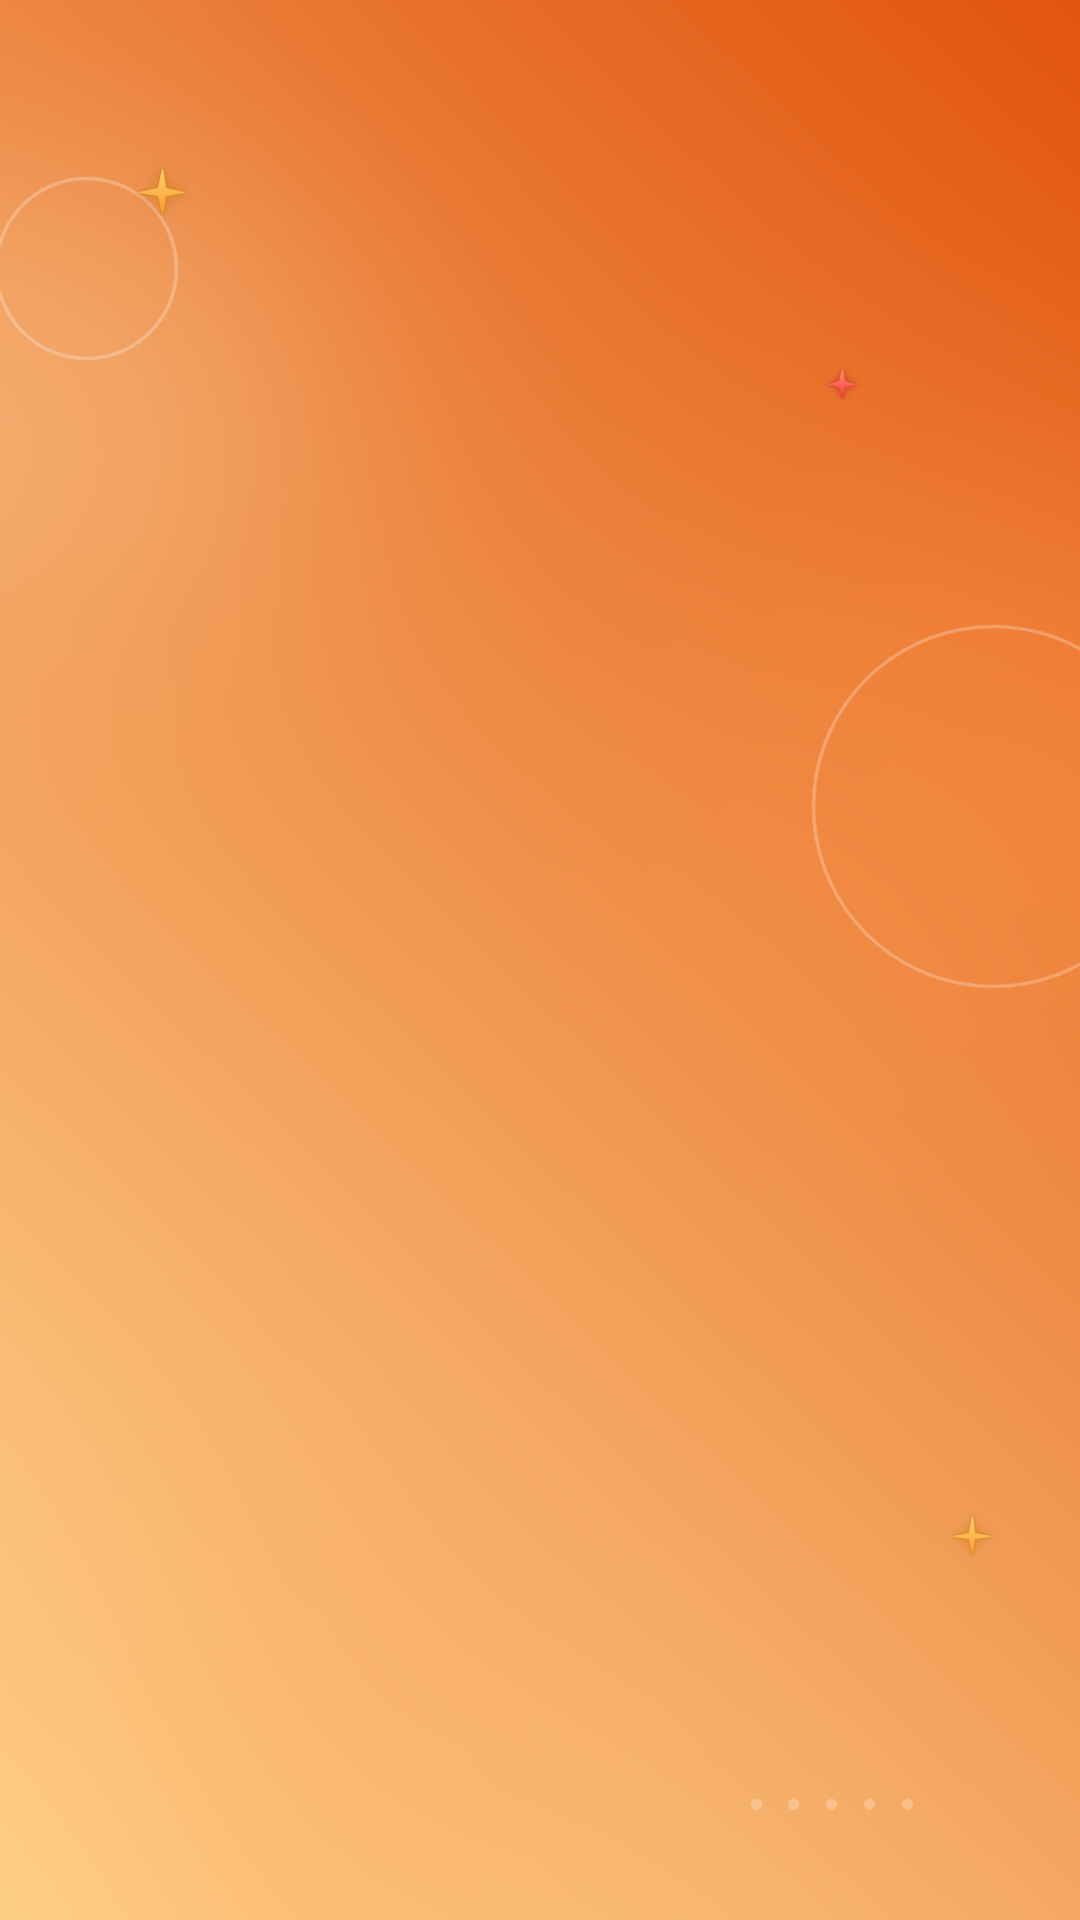
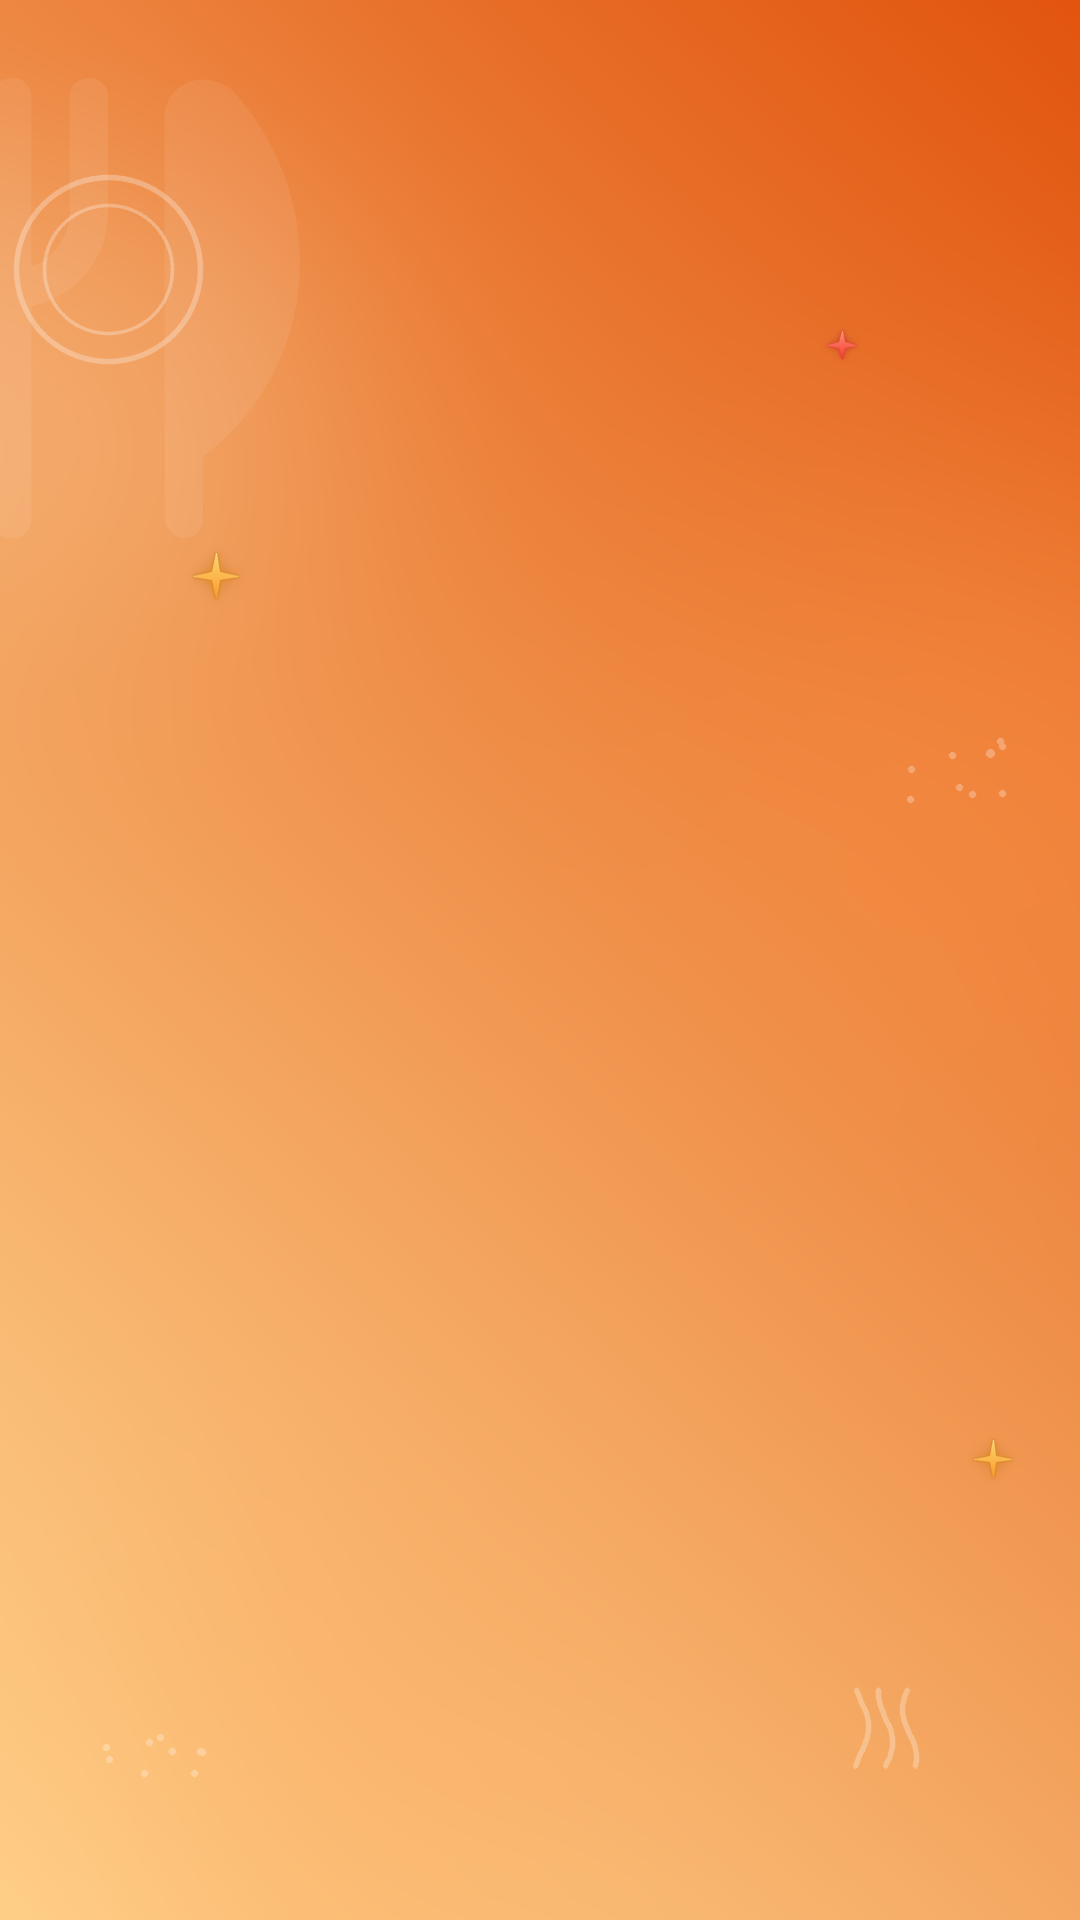
Nền kênh: 30 nền mới có họa tiết riêng theo kênh + script make_backgrounds

diff --git a/packaging/make_backgrounds.py b/packaging/make_backgrounds.py
@@ -1,0 +1,306 @@
+"""Tạo nền Motion Graphics theo kênh → assets/backgrounds/<kênh>/nen-1..5.png (+ ảnh tổng hợp nếu truyền đường dẫn).
+Cùng ngôn ngữ nền MG của app (gradient sáng, quầng mờ, nét mảnh, lấp lánh); mỗi kênh một bảng màu + bộ hình trang trí
+riêng + 1 icon lớn mờ; giữa khung để trống cho thẻ/chữ.
+  .venv/bin/python packaging/make_backgrounds.py [ra=assets/backgrounds] [tong_hop.png]"""
+from __future__ import annotations
+
+import math
+import os
+import sys
+from pathlib import Path
+
+import cv2
+import numpy as np
+
+sys.path.insert(0, str(Path(__file__).resolve().parent.parent))
+from thagent import neon                                  # noqa: E402
+from thagent.typography import _blend, hex_rgb            # noqa: E402
+
+W, H = 1080, 1920
+# kênh: (màu đậm, màu sáng, quầng 1, quầng 2, tông lấp lánh chính, phụ, icon lớn)
+FIELDS = {
+    "bat-dong-san": ("#1F3A93", "#B7C8EE", "#7FA0F0", "#F3D9A4", "gold", "gold", ["building", "city"]),
+    "suc-khoe":     ("#0E8F83", "#B5F0DE", "#5CD6B8", "#FFFFFF", "gold", "blue", ["heart", "leaf"]),
+    "giao-duc":     ("#2954DB", "#9EBDFD", "#8FB5FF", "#5B8CFF", "gold", "blue", ["book-open-cover", "graduation-cap"]),
+    "chia-se":      ("#6C3FD8", "#F4B8D2", "#B48CFF", "#FFD1A8", "gold", "red", ["comments", "comment-heart"]),
+    "lam-dep":      ("#D9467E", "#FFD9E5", "#FF9CC0", "#FFFFFF", "gold", "red", ["flower", "spa"]),
+    "fnb":          ("#E2550F", "#FFD58F", "#FF9A4D", "#FFF0C9", "gold", "red", ["bowl-chopsticks", "utensils"]),
+}
+NAMES = {"bat-dong-san": "Bất động sản", "suc-khoe": "Sức khỏe", "giao-duc": "Giáo dục", "chia-se": "Chia sẻ",
+         "lam-dep": "Làm đẹp", "fnb": "F&B"}
+
+# 5 bố cục: hướng gradient, quầng, 4 ô đặt hình (x,y,cỡ — luôn ở mép/góc), icon lớn (x,y,cỡ), lấp lánh
+LAYOUTS = [
+    dict(flip=False, orbs=[(.92, .10, 280, 0, .45), (.05, .88, 320, 1, .25), (.75, .62, 180, 0, .25)],
+         slots=[(.86, .15, 1.0), (.12, .82, .9), (.12, .10, .6), (.90, .90, .7)], big=(.86, .84, 520),
+         sparks=[(.70, .06, 50, 0), (.22, .93, 40, 1), (.94, .55, 30, 0)]),
+    dict(flip=True, orbs=[(.08, .12, 300, 0, .45), (.95, .85, 300, 1, .3), (.30, .55, 160, 0, .22)],
+         slots=[(.14, .16, 1.0), (.86, .80, .9), (.88, .09, .6), (.10, .92, .6)], big=(.12, .86, 500),
+         sparks=[(.32, .06, 46, 0), (.70, .93, 40, 1), (.05, .50, 28, 0)]),
+    dict(flip=False, orbs=[(.50, .05, 340, 0, .40), (.50, .98, 360, 1, .30)],
+         slots=[(.50, .08, 1.1), (.14, .88, .8), (.88, .86, .8), (.08, .45, .5)], big=(.92, .40, 440),
+         sparks=[(.82, .18, 44, 0), (.18, .20, 32, 1), (.85, .70, 30, 0), (.12, .72, 26, 0)]),
+    dict(flip=True, orbs=[(.90, .40, 260, 0, .40), (.10, .20, 220, 1, .28), (.30, .90, 240, 0, .25)],
+         slots=[(.88, .40, .9), (.10, .14, .8), (.82, .90, .7), (.14, .92, .6)], big=(.10, .16, 460),
+         sparks=[(.20, .30, 48, 0), (.78, .18, 30, 1), (.92, .76, 40, 0)]),
+    dict(flip=False, orbs=[(.15, .45, 300, 0, .35), (.85, .15, 240, 1, .35), (.80, .85, 260, 0, .30)],
+         slots=[(.10, .42, .9), (.88, .12, .9), (.80, .88, 1.0), (.14, .93, .5)], big=(.88, .14, 480),
+         sparks=[(.30, .08, 42, 0), (.58, .94, 36, 1), (.10, .78, 30, 0), (.94, .34, 26, 1)]),
+]
+
+T = 3   # nét mảnh
+
+
+def _p(x, y):
+    return int(round(x)), int(round(y))
+
+
+# ---------- hình trang trí (vẽ lên mặt nạ trắng, toạ độ tâm cx,cy, cỡ s ≈ 1 → ~200px) ----------
+def m_square(m, cx, cy, s, rot=0):
+    r = 70 * s
+    pts = [(cx + r * math.cos(math.radians(rot + 45 + 90 * k)), cy + r * math.sin(math.radians(rot + 45 + 90 * k))) for k in range(4)]
+    cv2.polylines(m, [np.int32(pts)], True, 255, T, cv2.LINE_AA)
+
+
+def m_roof(m, cx, cy, s):
+    w = 120 * s
+    for k, dy in enumerate((0, 34 * s)):
+        pts = [(cx - w + k * 20 * s, cy + 50 * s + dy), (cx, cy - 40 * s + dy), (cx + w - k * 20 * s, cy + 50 * s + dy)]
+        cv2.polylines(m, [np.int32(pts)], False, 255, T, cv2.LINE_AA)
+
+
+def m_dots(m, cx, cy, s, n=5, vertical=False):
+    for k in range(n):
+        x, y = (cx + (k - n / 2) * 38 * s, cy) if not vertical else (cx, cy + (k - n / 2) * 38 * s)
+        cv2.circle(m, _p(x, y), max(4, int(5 * s)), 255, -1, cv2.LINE_AA)
+
+
+def m_capsule(m, cx, cy, s, rot=-35):
+    L, r = 90 * s, 34 * s
+    a = math.radians(rot)
+    ux, uy = math.cos(a), math.sin(a)
+    c1, c2 = (cx - ux * L / 2, cy - uy * L / 2), (cx + ux * L / 2, cy + uy * L / 2)
+    nx, ny = -uy * r, ux * r
+    cv2.line(m, _p(c1[0] + nx, c1[1] + ny), _p(c2[0] + nx, c2[1] + ny), 255, T, cv2.LINE_AA)
+    cv2.line(m, _p(c1[0] - nx, c1[1] - ny), _p(c2[0] - nx, c2[1] - ny), 255, T, cv2.LINE_AA)
+    d = math.degrees(a)
+    cv2.ellipse(m, _p(*c1), (int(r), int(r)), d, 90, 270, 255, T, cv2.LINE_AA)
+    cv2.ellipse(m, _p(*c2), (int(r), int(r)), d, -90, 90, 255, T, cv2.LINE_AA)
+    cv2.line(m, _p(cx + nx, cy + ny), _p(cx - nx, cy - ny), 255, T, cv2.LINE_AA)
+
+
+def m_plus(m, cx, cy, s):
+    r = 26 * s
+    cv2.line(m, _p(cx - r, cy), _p(cx + r, cy), 255, T + 1, cv2.LINE_AA)
+    cv2.line(m, _p(cx, cy - r), _p(cx, cy + r), 255, T + 1, cv2.LINE_AA)
+
+
+def m_pulse(m, cx, cy, s):
+    w = 130 * s
+    cx = min(max(cx, w + 40), W - w - 40)     # không tràn mép
+    xs = [-1, -.35, -.22, -.08, .06, .2, 1]
+    ys = [0, 0, -.9, .8, -.3, 0, 0]
+    pts = [(cx + x * w, cy + y * 60 * s) for x, y in zip(xs, ys)]
+    cv2.polylines(m, [np.int32(pts)], False, 255, T, cv2.LINE_AA)
+
+
+def m_ring(m, cx, cy, s, n=1):
+    for k in range(n):
+        cv2.circle(m, _p(cx, cy), int((110 - k * 30) * s), 255, T - 1 if k else T, cv2.LINE_AA)
+
+
+def m_triangle(m, cx, cy, s, rot=0):
+    r = 46 * s
+    pts = [(cx + r * math.cos(math.radians(rot - 90 + 120 * k)), cy + r * math.sin(math.radians(rot - 90 + 120 * k))) for k in range(3)]
+    cv2.polylines(m, [np.int32(pts)], True, 255, T, cv2.LINE_AA)
+
+
+def m_stroke(m, cx, cy, s):
+    """gạch chân kiểu bút: cung thoải."""
+    xs = np.linspace(-1, 1, 30)
+    pts = [(cx + x * 120 * s, cy + (x * x - 1) * -14 * s + x * 10 * s) for x in xs]
+    cv2.polylines(m, [np.int32(pts)], False, 255, T + 1, cv2.LINE_AA)
+
+
+def m_bubble(m, cx, cy, s, flip=False):
+    w, h, r = 150 * s, 96 * s, 30 * s
+    x0, y0, x1, y1 = cx - w / 2, cy - h / 2, cx + w / 2, cy + h / 2
+    for (ax, ay, bx, by) in [(x0 + r, y0, x1 - r, y0), (x0 + r, y1, x1 - r, y1), (x0, y0 + r, x0, y1 - r), (x1, y0 + r, x1, y1 - r)]:
+        if (ay == y1 and ax == x0 + r):     # cạnh đáy chừa chỗ đuôi
+            tx = cx + (-w / 4 if not flip else w / 4)
+            cv2.line(m, _p(x0 + r, y1), _p(tx - 14 * s, y1), 255, T, cv2.LINE_AA)
+            cv2.line(m, _p(tx + 14 * s, y1), _p(x1 - r, y1), 255, T, cv2.LINE_AA)
+            tip = (tx + (-22 * s if not flip else 22 * s), y1 + 34 * s)
+            cv2.polylines(m, [np.int32([(tx - 14 * s, y1), tip, (tx + 14 * s, y1)])], False, 255, T, cv2.LINE_AA)
+            continue
+        cv2.line(m, _p(ax, ay), _p(bx, by), 255, T, cv2.LINE_AA)
+    for (ox, oy, a0) in [(x0 + r, y0 + r, 180), (x1 - r, y0 + r, 270), (x1 - r, y1 - r, 0), (x0 + r, y1 - r, 90)]:
+        cv2.ellipse(m, _p(ox, oy), (int(r), int(r)), 0, a0, a0 + 90, 255, T, cv2.LINE_AA)
+    for k in range(3):
+        cv2.circle(m, _p(cx + (k - 1) * 30 * s, cy), max(4, int(7 * s)), 255, -1, cv2.LINE_AA)
+
+
+def m_quote(m, cx, cy, s):
+    """dấu ngoặc kép “ vẽ bằng chữ đậm."""
+    from PIL import Image, ImageDraw, ImageFont
+    sz = int(150 * s)
+    f = ImageFont.truetype(str(Path(__file__).resolve().parent.parent / "assets" / "fonts" / "BeVietnamPro-ExtraBold.ttf"), sz)
+    im = Image.new("L", (sz * 2, sz * 2), 0)
+    ImageDraw.Draw(im).text((sz, sz), "\u201c", font=f, fill=255, anchor="mm")
+    g = np.asarray(im)
+    x0, y0 = int(cx - sz), int(cy - sz + sz * 0.25)
+    xa, ya, xb, yb = max(x0, 0), max(y0, 0), min(x0 + 2 * sz, W), min(y0 + 2 * sz, H)
+    m[ya:yb, xa:xb] = np.maximum(m[ya:yb, xa:xb], g[ya - y0:yb - y0, xa - x0:xb - x0])
+
+
+def m_icon(m, name, cx, cy, size, a=1.0):
+    g = neon._uicon_mask(name, int(size))
+    if g is None:
+        return
+    h, w = g.shape
+    x0, y0 = int(cx - w / 2), int(cy - h / 2)
+    xa, ya, xb, yb = max(x0, 0), max(y0, 0), min(x0 + w, W), min(y0 + h, H)
+    if xa >= xb or ya >= yb:
+        return
+    sub = g[ya - y0:yb - y0, xa - x0:xb - x0] * 255 * a
+    m[ya:yb, xa:xb] = np.maximum(m[ya:yb, xa:xb], sub.astype(m.dtype))
+
+
+def m_heart(m, cx, cy, s):
+    m_icon(m, "heart", cx, cy, 44 * s)
+
+
+def m_crescent(m, cx, cy, s, rot=0):
+    r = 70 * s
+    cv2.ellipse(m, _p(cx, cy), (int(r), int(r)), rot, 200, 340, 255, T, cv2.LINE_AA)
+    cv2.ellipse(m, _p(cx, cy - 18 * s), (int(r * 0.82), int(r * 0.82)), rot, 215, 325, 255, T - 1, cv2.LINE_AA)
+
+
+def m_flower(m, cx, cy, s, rot=0):
+    for k in range(5):
+        a = math.radians(rot + 72 * k)
+        px, py = cx + math.cos(a) * 34 * s, cy + math.sin(a) * 34 * s
+        cv2.ellipse(m, _p(px, py), (int(34 * s), int(17 * s)), math.degrees(a), 0, 360, 255, T - 1, cv2.LINE_AA)
+    cv2.circle(m, _p(cx, cy), max(4, int(9 * s)), 255, -1, cv2.LINE_AA)
+
+
+def m_plate(m, cx, cy, s):
+    cv2.circle(m, _p(cx, cy), int(115 * s), 255, T, cv2.LINE_AA)
+    cv2.circle(m, _p(cx, cy), int(80 * s), 255, T - 1, cv2.LINE_AA)
+
+
+def m_spice(m, cx, cy, s, seed=0):
+    rng = np.random.default_rng(seed)
+    for _ in range(9):
+        x, y = cx + rng.uniform(-90, 90) * s, cy + rng.uniform(-60, 60) * s
+        cv2.circle(m, _p(x, y), max(3, int(rng.uniform(3, 7) * s)), 255, -1, cv2.LINE_AA)
+
+
+def m_steam(m, cx, cy, s):
+    for k in (-1, 0, 1):
+        ys = np.linspace(0, 1, 30)
+        pts = [(cx + k * 34 * s + math.sin(y * math.pi * 1.6 + k) * 10 * s, cy + (0.5 - y) * 110 * s) for y in ys]
+        cv2.polylines(m, [np.int32(pts)], False, 255, T, cv2.LINE_AA)
+
+
+# bộ hình mỗi kênh: 4 hàm theo 4 ô của bố cục (xoay vòng theo số nền để 5 nền khác nhau)
+MOTIFS = {
+    "bat-dong-san": [lambda m, x, y, s, i: m_roof(m, x, y, s), lambda m, x, y, s, i: m_square(m, x, y, s, rot=i * 15),
+                     lambda m, x, y, s, i: m_dots(m, x, y, s), lambda m, x, y, s, i: m_square(m, x, y, s * 0.6, rot=45)],
+    "suc-khoe": [lambda m, x, y, s, i: m_capsule(m, x, y, s, rot=-35 + i * 20), lambda m, x, y, s, i: m_pulse(m, x, y, s),
+                 lambda m, x, y, s, i: m_plus(m, x, y, s), lambda m, x, y, s, i: m_plus(m, x, y, s * 0.7)],
+    "giao-duc": [lambda m, x, y, s, i: m_ring(m, x, y, s), lambda m, x, y, s, i: m_stroke(m, x, y, s),
+                 lambda m, x, y, s, i: m_dots(m, x, y, s), lambda m, x, y, s, i: m_triangle(m, x, y, s, rot=i * 20)],
+    "chia-se": [lambda m, x, y, s, i: m_bubble(m, x, y, s, flip=i % 2 == 1), lambda m, x, y, s, i: m_quote(m, x, y, s),
+                lambda m, x, y, s, i: m_heart(m, x, y, s), lambda m, x, y, s, i: m_bubble(m, x, y, s * 0.55, flip=i % 2 == 0)],
+    "lam-dep": [lambda m, x, y, s, i: m_flower(m, x, y, s, rot=i * 14), lambda m, x, y, s, i: m_crescent(m, x, y, s, rot=i * 30),
+                lambda m, x, y, s, i: m_flower(m, x, y, s * 0.6, rot=i * 30), lambda m, x, y, s, i: m_crescent(m, x, y, s * 0.6, rot=180)],
+    "fnb": [lambda m, x, y, s, i: m_plate(m, x, y, s), lambda m, x, y, s, i: m_steam(m, x, y, s),
+            lambda m, x, y, s, i: m_spice(m, x, y, s, seed=i), lambda m, x, y, s, i: m_spice(m, x, y, s * 0.7, seed=i + 7)],
+}
+EXTRA_SPARKS = {"lam-dep": 7}     # ánh nhũ: thêm lấp lánh nhỏ
+
+
+def _blob(m, cx, cy, s, seed):
+    """mảng mềm hữu cơ (làm đẹp): đa giác cong ngẫu nhiên, làm nhòe."""
+    rng = np.random.default_rng(seed)
+    n = 9
+    rs = rng.uniform(0.75, 1.15, n)
+    pts = [(cx + math.cos(2 * math.pi * k / n) * 170 * s * rs[k], cy + math.sin(2 * math.pi * k / n) * 130 * s * rs[k]) for k in range(n)]
+    cv2.fillPoly(m, [np.int32(pts)], 1.0, cv2.LINE_AA)
+
+
+def make(fid: str, li: int) -> np.ndarray:
+    top, bot, o1, o2, t1, t2, bigs = FIELDS[fid]
+    L = LAYOUTS[li]
+    y = np.linspace(0, 1, H)[:, None, None]
+    x = np.linspace(0, 1, W)[None, :, None]
+    if L["flip"]:
+        x = 1 - x
+    t = np.clip(0.65 * y + 0.35 * x, 0, 1)
+    c = lambda h: np.array(hex_rgb(h), np.float32) / 255
+    bg = c(top) * (1 - t) + c(bot) * t
+    for (cx, cy, r, ci, a) in L["orbs"]:
+        m = np.zeros((H, W), np.float32)
+        cv2.circle(m, _p(W * cx, H * cy), int(r), 1.0, -1, cv2.LINE_AA)
+        m = (cv2.GaussianBlur(m, (0, 0), r * 0.6) * a)[..., None]
+        bg = bg * (1 - m) + c((o1, o2)[ci]) * m
+    if fid == "lam-dep":         # 2 mảng mềm sáng
+        for k, (sx, sy, s) in enumerate(L["slots"][:2]):
+            m = np.zeros((H, W), np.float32)
+            _blob(m, W * sx, H * sy, s, li * 3 + k)
+            m = (cv2.GaussianBlur(m, (0, 0), 40) * 0.22)[..., None]
+            bg = bg * (1 - m) + c("#FFFFFF") * m
+    out = np.zeros((H, W, 4), np.float32)
+    out[..., :3] = bg
+    out[..., 3] = 1
+    # icon lớn mờ (tràn ra mép)
+    big = np.zeros((H, W), np.uint8)
+    bx, by, bs = L["big"]
+    m_icon(big, bigs[li % len(bigs)], W * bx, H * by, bs)
+    a = big.astype(np.float32) / 255 * 0.07
+    out[..., :3] = out[..., :3] * (1 - a[..., None]) + a[..., None]
+    # hình trang trí nét mảnh
+    lay = np.zeros((H, W), np.uint8)
+    fs = MOTIFS[fid]
+    for k, (sx, sy, s) in enumerate(L["slots"]):
+        fs[(k + li) % len(fs)](lay, W * sx, H * sy, s, li)
+    a = lay.astype(np.float32) / 255 * 0.28
+    out[..., :3] = out[..., :3] * (1 - a[..., None]) + a[..., None]
+    sparks = list(L["sparks"])
+    rng = np.random.default_rng(li + 11)
+    for _ in range(EXTRA_SPARKS.get(fid, 0)):
+        sx, sy = rng.uniform(0.04, 0.96), rng.choice([rng.uniform(0.03, 0.22), rng.uniform(0.78, 0.97)])
+        sparks.append((sx, sy, int(rng.uniform(14, 24)), int(rng.integers(0, 2))))
+    for (sx, sy, sz, ti) in sparks:
+        sp = neon.icon_sprite("sparkle", sz, (t1, t2)[ti])
+        h, w = sp.shape[:2]
+        _blend(out, sp * 0.8, int(W * sx - w / 2), int(H * sy - h / 2))
+    return (np.clip(out[..., :3], 0, 1) * 255).astype(np.uint8)
+
+
+def sheet(root: Path, out: Path):
+    from PIL import Image, ImageDraw, ImageFont
+    tw, th, pad, hd = 240, 427, 12, 56
+    img = Image.new("RGB", (pad + 5 * (tw + pad), len(FIELDS) * (hd + th + pad)), (24, 24, 24))
+    d = ImageDraw.Draw(img)
+    fnt = ImageFont.truetype(str(Path(__file__).resolve().parent.parent / "assets" / "fonts" / "BeVietnamPro-Bold.ttf"), 30)
+    for r, fid in enumerate(FIELDS):
+        y = r * (hd + th + pad)
+        d.text((pad, y + 12), f"{r + 1}. {NAMES[fid]}", fill=(240, 240, 240), font=fnt)
+        for k in range(5):
+            im = Image.open(root / fid / f"nen-{k + 1}.png").convert("RGB").resize((tw, th), Image.LANCZOS)
+            img.paste(im, (pad + k * (tw + pad), y + hd))
+    img.save(out)
+
+
+if __name__ == "__main__":
+    root = Path(sys.argv[1] if len(sys.argv) > 1 else Path(__file__).resolve().parent.parent / "assets" / "backgrounds")
+    for fid in FIELDS:
+        (root / fid).mkdir(parents=True, exist_ok=True)
+        for li in range(len(LAYOUTS)):
+            cv2.imwrite(str(root / fid / f"nen-{li + 1}.png"), cv2.cvtColor(make(fid, li), cv2.COLOR_RGB2BGR))
+        print(root / fid)
+    if len(sys.argv) > 2:
+        sheet(root, Path(sys.argv[2]))
+        print(sys.argv[2])
